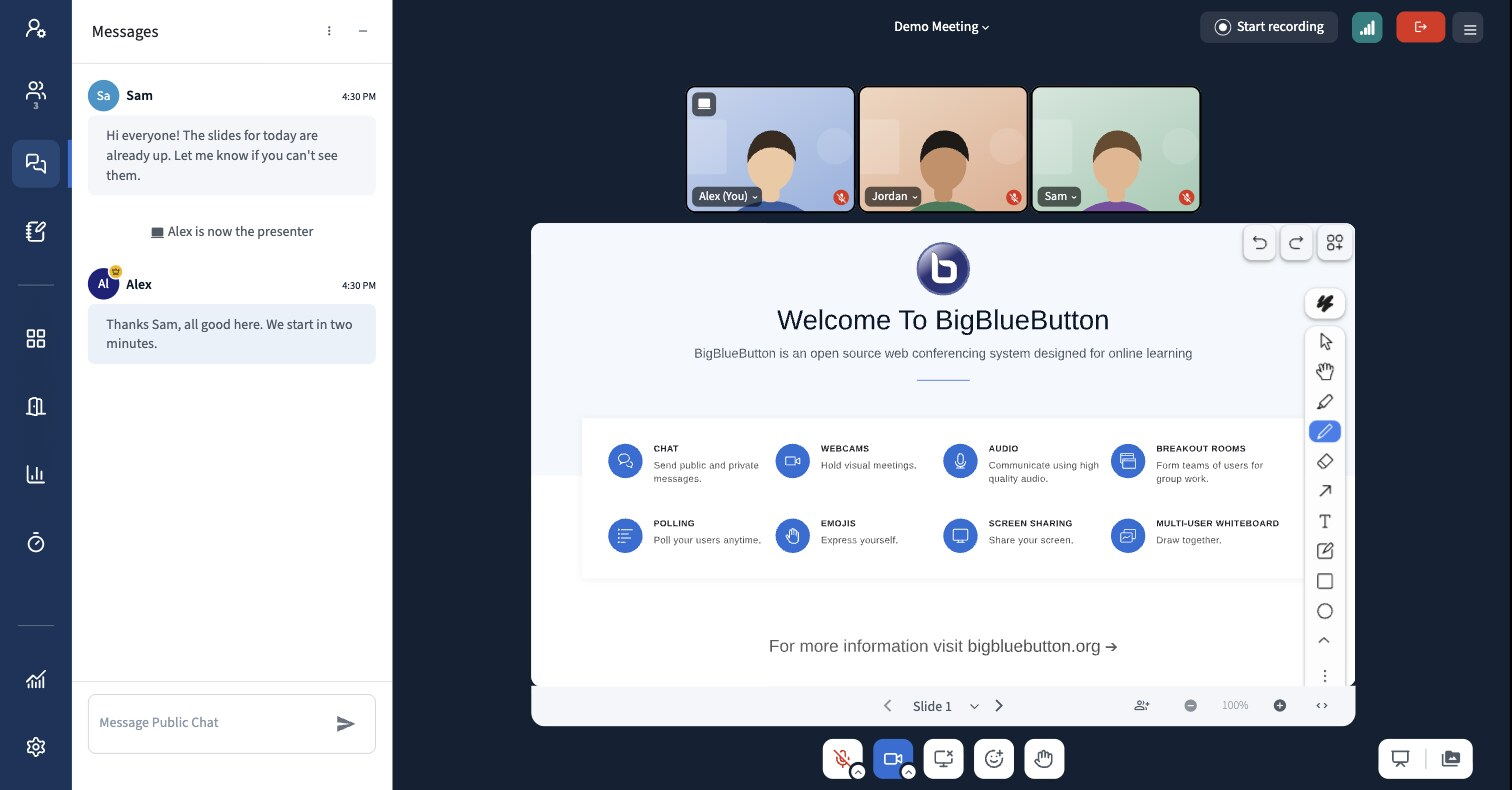
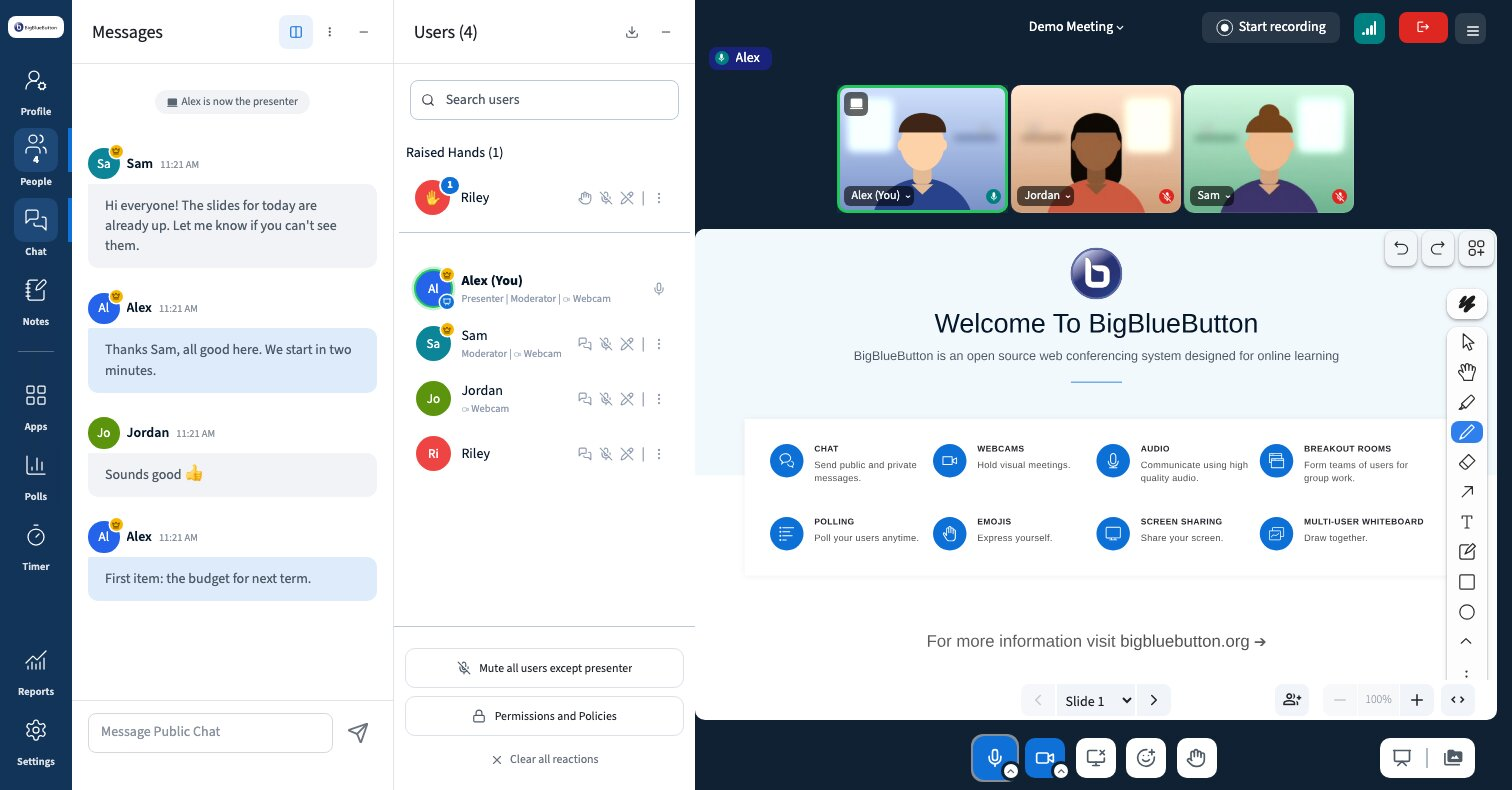
README: new before/after screenshots, nine callouts
Retaken on a plain BigBlueButton (default logo and presentation, no other
plugins), in English, with the second side panel of the multi-functional
mode open: chat in the main panel, the user list (with a raised hand) in the
second one.

The after image now has nine callouts: the icon bar with names, round
avatars with crown and presenter badge, both side panels flush, chat
bubbles, cameras with the speaker ring, one action per row in the user
list, Lucide icons, the same corner radius on every button and the grouped
slide controls.

diff --git a/docs/annotate.py b/docs/annotate.py
@@ -4,26 +4,30 @@
 import base64, sys
 src, out = sys.argv[1], sys.argv[2]
 W, H = 1512, 790
-LEG = 132
+LEG = 182
 img = base64.b64encode(open(src, 'rb').read()).decode()
 # (number, badge x, badge y, target x or None, target y)
 marks = [
-    (1, 36, 590, None, None),
-    (2, 214, 260, 121, 269),
-    (3, 170, 470, 74, 470),
-    (4, 1242, 140, 1201, 140),
-    (5, 790, 758, 822, 758),
-    (6, 1112, 758, 1068, 758),
-    (7, 1205, 64, 1238, 40),
+    (1, 36, 610, None, None),
+    (2, 560, 246, 452, 272),
+    (3, 394, 560, None, None),
+    (4, 232, 645, 232, 602),
+    (5, 1390, 150, 1356, 150),
+    (6, 545, 600, 545, 646),
+    (7, 930, 758, 970, 758),
+    (8, 1205, 72, 1238, 44),
+    (9, 990, 700, 1020, 700),
 ]
 labels = [
-    "Full-height, narrower icon bar",
-    "Moderators: round avatar, gold crown",
-    "Panel flush with the bar, less padding",
-    "Cameras fill the tile, clear name tags",
-    "Red when mic or camera is off",
-    "Larger, clearer icons, easy to read",
+    "Full-height icon bar, names under icons",
+    "Round avatars, crown, presenter badge",
+    "Both side panels flush and full height",
+    "Chat bubbles, yours in light blue",
+    "Cameras fill the tile, ring on speaker",
+    "One action per row, nothing cut",
+    "Lucide icons, blue when active",
     "Same corner radius on every button",
+    "Slide controls grouped on a light bar",
 ]
 ACC = "#F25C3B"
 s = [f'<svg xmlns="http://www.w3.org/2000/svg" xmlns:xlink="http://www.w3.org/1999/xlink" width="{W}" height="{H+LEG}" viewBox="0 0 {W} {H+LEG}">',
